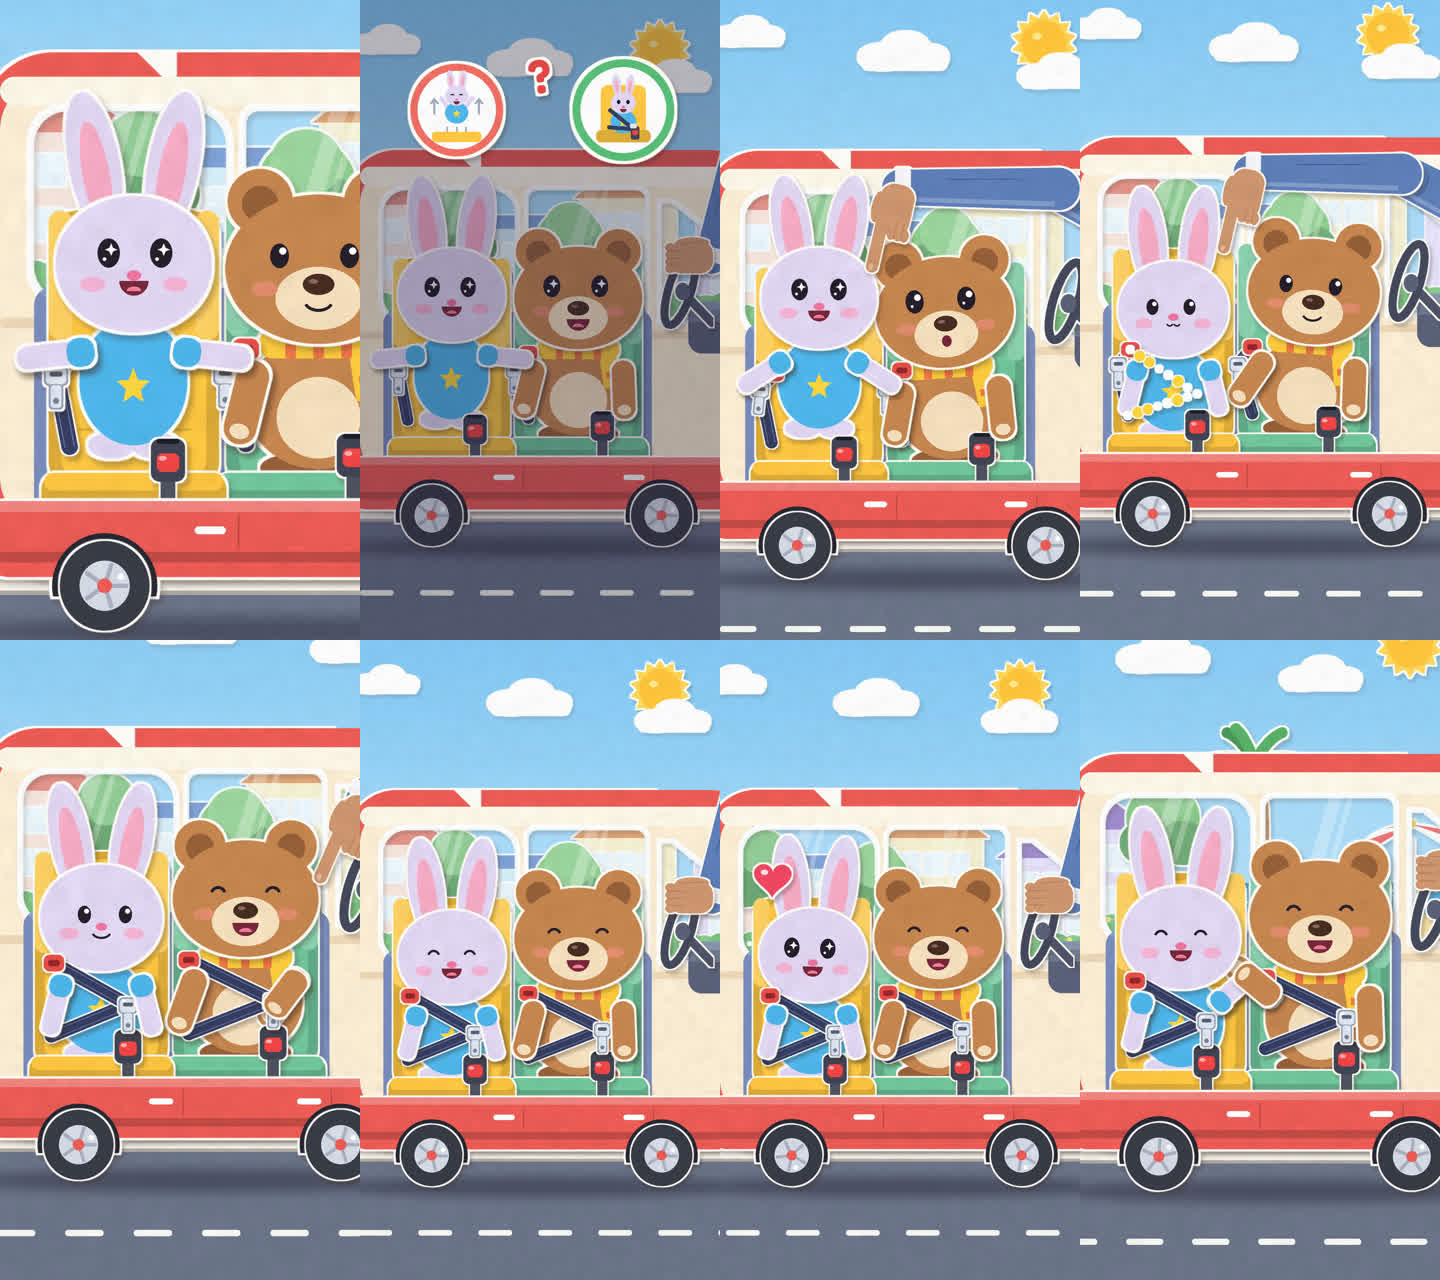
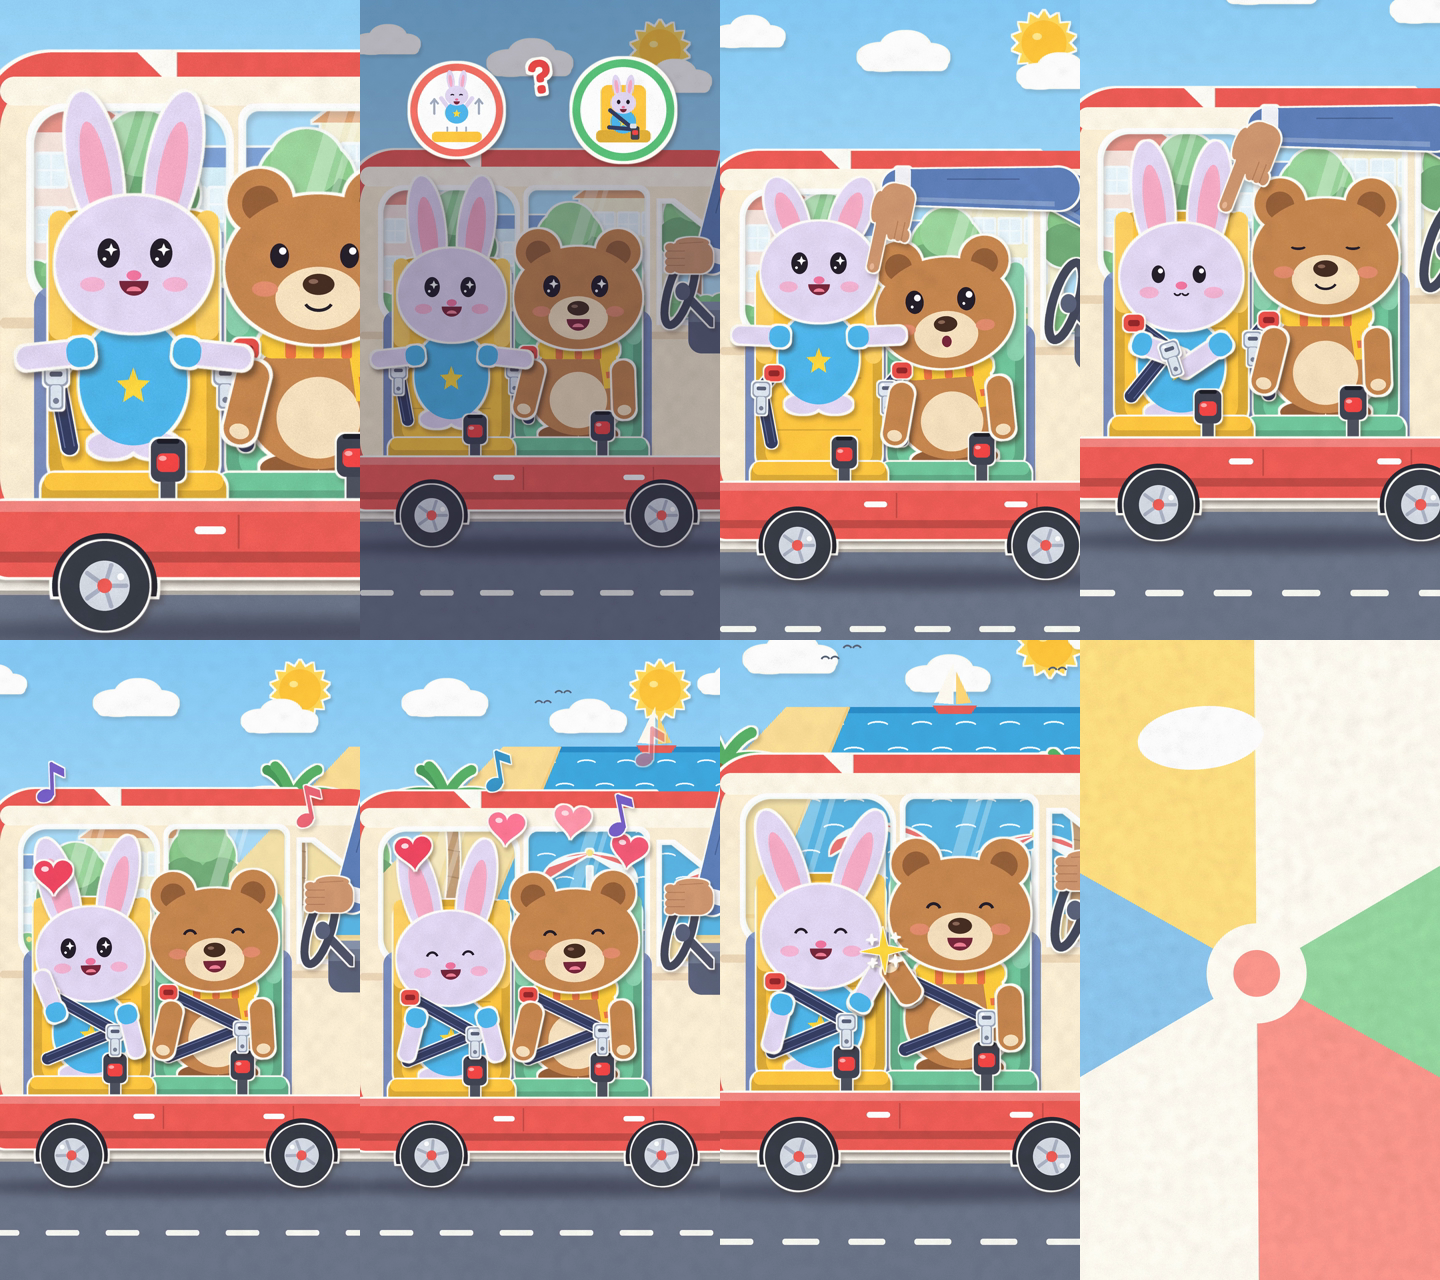
Ep 9 v3: livelier drive, stop at a visible beach, beach-ball wipe loop
Claude-Session: https://claude.ai/code/session_01LjzYEdu9bbZS39dR8hcang

diff --git a/episodes/ep09_buckle_up.py b/episodes/ep09_buckle_up.py
@@ -57,11 +57,13 @@ T_SN_GRAB, T_SN_MID, T_SN_PASS, T_SN_CLICK = 8.05, 8.35, 8.62, 9.0
 T_CR_GRAB, T_CR_MID, T_CR_PASS, T_CR_CLICK = 9.15, 9.42, 9.68, 10.0
 T_THUMB = 10.55                       # count 3: thumbs-up
 T_WHEEL = 11.2                        # hand back on the wheel
-T_GO, RU, T_STOP, RD = 11.55, 1.0, 16.3, 1.2
-V = 360.0                             # cruising scroll speed (px/s)
+T_GO, RU, T_STOP, RD = 11.55, 0.8, 14.55, 1.1   # drive off ... and stop AT the beach before the paw-bump
+ARRIVE_O = PC.BEACH_X + 120            # scroll offset where the beach fills the view
+V = ARRIVE_O / (RU / 2 + (T_STOP - T_GO - RU - RD) + RD / 2)   # cruising scroll speed (px/s), ~620
 COUNTS = (T_SN_CLICK, T_CR_CLICK, T_THUMB + 0.05)
 HEART_PLAN = ((12.4, 160, 720), (12.6, 450, 640), (12.8, 820, 700), (13.0, 640, 600))
-T_IRIS0, T_IRIS1, T_RESET, T_OPEN1 = 16.55, 17.1, 17.18, 17.9
+T_BALL0, T_COVER0, T_RESET, T_COVER1, T_BALL1 = 16.45, 16.95, 17.05, 17.15, 17.75   # beach-ball wipe (loop)
+NOTE_PLAN = ((11.9, 150, 560, 0), (12.5, 900, 520, 1), (13.0, 420, 500, 2), (13.5, 760, 540, 0))
 
 SKY = PC.sky()
 CLOUDS = PC.clouds(W_CLOUDS := scene.W + 600)
@@ -98,7 +100,8 @@ CHECK = icons.check(130)
 SPARKLE = scene.sparkle()
 NUMS = [scene.numeral(1, (244, 112, 104)), scene.numeral(2, (255, 196, 52)), scene.numeral(3, (84, 182, 222))]
 HEARTS = [scene.heart(c, 110) for c in ((240, 72, 98), (255, 120, 150), (244, 92, 120), (255, 150, 170))]
-IRIS = PS.HeartIris()
+BALL = PC.BeachBallWipe()
+NOTES = [PC.music_note(c) for c in ((120, 96, 200), (236, 104, 120), (60, 150, 200))]
 SNIP = Character("snip", 1.15)
 CR = Character("crinkle", 1.2)
 
@@ -338,8 +341,14 @@ def snip_state(t):
         s["tilt"] = 6 * math.sin(2 * math.pi * 1.0 * (t - T_GO)) * ease_in_out(seg(t, 12.0, 12.4))
         e = 7 * math.sin(2 * math.pi * 2.0 * (t - T_GO))
         s["ears"] = [e, -e]
-        if 13.6 <= t:
+        wave = ease_in_out(seg(t, 11.95, 12.25)) * (1 - ease_in_out(seg(t, 13.25, 13.55)))
+        if wave > 0:                       # waves out of the window at the passing houses
+            s["arm_l"] = lerp(-14, -138 + 22 * math.sin(2 * math.pi * 2.6 * (t - 11.95)), wave)
+            s["look"] = (-10, -4)
+        s["head_dy"] = -5 * abs(math.sin(2 * math.pi * 1.0 * (t - T_GO)))   # bops to the beat
+        if 13.9 <= t:                      # the sea! (car rolls to a stop at the beach)
             s.update(eyes="sparkle", mouth="grin", look=(-10, -2))
+            s["head_dy"] = -10 * math.sin(math.pi * seg(t, 14.05, 14.35))
     elif t < 16.15:                        # PAW-BUMP (seated)
         s.update(eyes="happy", mouth="grin")
         wind = ease_in_out(seg(t, 14.8, 15.1))
@@ -415,7 +424,8 @@ def crinkle_state(t):
     elif t < 14.6:                         # the happy ride
         s.update(eyes="happy", mouth="grin", look=(-6, -4))
         s["head_dy"] = 6 * math.sin(2 * math.pi * 2.0 * (t - T_GO))
-        if 13.6 <= t:
+        s["lean"] = 5 * math.sin(2 * math.pi * 1.0 * (t - T_GO)) * ease_in_out(seg(t, T_GO, T_GO + 0.4)) * (1 - seg(t, 13.8, 14.1))
+        if 13.9 <= t:
             s.update(eyes="sparkle", look=(-10, -2))
     elif t < 16.15:                        # PAW-BUMP
         s.update(eyes="happy", mouth="grin", look=(-6, 2))
@@ -641,6 +651,13 @@ def render_frame(t):
             place(f, HEARTS[i], (x + 12 * math.sin(t * 3 + i), y - 150 * p + b), scale=pop_scale(t, t0, 0.25),
                   alpha=1 - ease_in_out(seg(t, 13.9, 14.3)), angle=10 * math.sin(t * 2.5 + i))
 
+    # music notes bob out of the car on the happy ride
+    for i, (t0, x, y, ci) in enumerate(NOTE_PLAN):
+        if t0 <= t < t0 + 1.4:
+            p = seg(t, t0, t0 + 1.4)
+            place(f, NOTES[ci], (x + 30 * math.sin(t * 4 + i), y - 260 * p + b), scale=pop_scale(t, t0, 0.25) * 0.9,
+                  alpha=1 - ease_in_out(seg(p, 0.6, 1.0)), angle=12 * math.sin(t * 5 + i))
+
     # paw-bump: both touching paws in front, sparkle
     if 15.1 <= t < 16.3:
         place(f, SNIP.arm_r, shoulder(SNIP, sn, "r"), angle=sn["arm_r"] + sn["lean"], sy=sn["str_r"])
@@ -680,18 +697,20 @@ def render_frame(t):
     if T_THUMB + 0.1 <= t < T_THUMB + 0.9:
         place(out, CHECK, (700, 470), scale=pop_scale(t, T_THUMB + 0.1, 0.25) * (1 - ease_in_out(seg(t, T_THUMB + 0.7, T_THUMB + 0.9))))
 
-    # heart iris back to the start (loop)
-    if T_IRIS0 <= t < T_OPEN1:
-        if t < T_IRIS1:
-            size = lerp(4300, 0, ease_in_out(seg(t, T_IRIS0, T_IRIS1)) ** 0.7)
-            ctr = (500, 900)
-        elif t < T_RESET + 0.06:
-            size, ctr = 0, IRIS_OPEN_AT
-        else:
-            size = lerp(0, 4300, ease_in_out(seg(t, T_RESET + 0.06, T_OPEN1)) ** 1.6)
-            ctr = IRIS_OPEN_AT
-        out = IRIS.apply(out, ctr, size)
+    # a giant beach ball rolls across and hides the jump back to the start (loop)
+    if T_BALL0 <= t < T_BALL1:
+        out = out.copy()
+        BALL.draw(out, ball_x(t), 960 + 40 * math.sin(math.pi * seg(t, T_BALL0, T_BALL1)), -1.6 * (t - T_BALL0) * 30)
     return out
+
+
+def ball_x(t):
+    """Ball centre: rolls in from the right, lingers while it covers the whole screen, rolls out left."""
+    if t < T_COVER0:
+        return lerp(scene.W + BALL.R + 30, 600, ease_in_out(seg(t, T_BALL0, T_COVER0)) ** 0.8)
+    if t < T_COVER1:
+        return lerp(600, 480, seg(t, T_COVER0, T_COVER1))
+    return lerp(480, -BALL.R - 30, ease_in_out(seg(t, T_COVER1, T_BALL1)) ** 1.25)
 
 
 def draw_belt_path(f, t, base):
@@ -729,10 +748,9 @@ CAM_KEYS = [
     (0.0,) + CAM0, (1.0, 1.47, 330, 1000), (2.3, 1.0, 540, 960), (4.6, 1.0, 540, 960),
     (5.0, 1.08, 470, 920), (6.1, 1.08, 470, 920), (6.5, 1.0, 540, 960), (7.75, 1.0, 540, 960),
     (8.25, 1.14, 482, 1060), (10.1, 1.14, 482, 1060), (10.55, 1.0, 540, 960), (14.7, 1.0, 540, 960),
-    (15.05, 1.1, 480, 1010), (16.3, 1.1, 480, 1010), (T_IRIS1, 1.0, 540, 960), (T_RESET, 1.0, 540, 960),
+    (15.05, 1.1, 480, 1010), (16.3, 1.1, 480, 1010), (16.9, 1.0, 540, 960), (T_RESET, 1.0, 540, 960),
     (T_RESET + 0.01,) + CAM0, (DUR,) + CAM0]
 
-IRIS_OPEN_AT = _iris_open_at()
 
 
 def camera(f, t):
@@ -840,18 +858,22 @@ def build_audio(path):
         sfx.add(tt, A.pop(0.45))
     sfx.add(12.4, A.twinkle(0.6))
     sfx.add(13.7, PS.chirp(0.5))
+    sfx.add(14.2, A.whoosh(0.9, 0.35))                       # sea waves as we pull up
+    for tt, _, _, _ in NOTE_PLAN:
+        sfx.add(tt, A.pop(0.3))
     music.add(13.0, A.shaker(0.4))
     # paw-bump (signature)
     sfx.add(14.85, A.snare_roll(0.6, 0.8))
     sfx.add(15.45, A.boop(0.9))
     A.jingle(music, 15.47, 1.0, ending=True)
     sfx.add(15.5, A.twinkle(0.8))
-    # car stops at the beach, heart iris, back to the start
+    # at the beach; a giant beach ball rolls by, back to the start
     A.strum(music, 16.3, "F", 0.5)
     A.strum(music, 16.8, "G7", 0.5)
-    sfx.add(T_IRIS0, PS.slide_whistle(500, 1400, 0.55, 0.6))
-    sfx.add(T_IRIS1, A.pop(0.7))
-    sfx.add(T_RESET + 0.1, PS.slide_whistle(1400, 700, 0.5, 0.5))
+    sfx.add(T_BALL0, A.whoosh(0.6, 0.7))                    # here comes the beach ball ...
+    sfx.add(T_COVER0 - 0.05, A.boing(0.8, 180))             # BOING
+    sfx.add(T_COVER1, A.whoosh(0.55, 0.6))                  # ... and rolls away
+    sfx.add(T_BALL1 - 0.1, A.pop(0.5))
     for tt in (17.25, 17.75):
         sfx.add(tt, A.boing(0.45, 300))
     sfx.add(17.45, A.uh_oh(0.6))

diff --git a/episodes/props_car.py b/episodes/props_car.py
@@ -124,7 +124,7 @@ def _bucket():
     return c.finish(pivot=(60, 112), border=4, shadow_alpha=0.2)
 
 
-BEACH_X = 1480          # strip x where the beach starts
+BEACH_X = 1150          # strip x where the beach starts (just off screen at the start)
 SCENE_W = 2800          # scenery strip width
 
 
@@ -135,25 +135,37 @@ def scenery():
     # home street: soft pastel houses and trees
     houses = [(-60, 330, 400, (255, 226, 214), (232, 128, 112), (150, 186, 236), 0),
               (320, 280, 330, (214, 236, 246), (110, 146, 206), (240, 150, 110), 2),
-              (660, 290, 420, (255, 240, 200), (226, 150, 92), (120, 186, 140), 1),
-              (1010, 300, 360, (232, 222, 248), (150, 120, 196), (240, 120, 130), 0)]
+              (660, 290, 420, (255, 240, 200), (226, 150, 92), (120, 186, 140), 1)]
     for x, w, h, wall, roof, door, kind in houses:
         place(img, PS._house(w, h, wall, roof, door, kind), (x, HOUSE_BASE))
-    for x, h, col in ((290, 470, (116, 190, 112)), (630, 420, (130, 200, 120)), (1360, 560, (124, 194, 116))):
+    for x, h, col in ((290, 470, (116, 190, 112)), (630, 420, (130, 200, 120)), (1010, 520, (124, 194, 116))):
         place(img, PS._tree(h, col), (x, HOUSE_BASE + 4))
     place(img, PS._hedge(BEACH_X + 40), (-20, HOUSE_BASE - 60))
-    # the beach: sea, sand, umbrella, palm, bucket
+    # the beach: the sea rises high enough to be seen above the car roof (horizon y=320), with a sandy
+    # shoreline running diagonally up from the left, a sailboat, gulls; palms and umbrellas in front
     d = ImageDraw.Draw(img)
-    sea_y, sand_y = 800, 885
-    d.rectangle([BEACH_X, sea_y, SCENE_W, sand_y], fill=(64, 168, 222, 255))
-    d.rectangle([BEACH_X, sea_y, SCENE_W, sea_y + 14], fill=(44, 140, 200, 255))
-    for x in range(BEACH_X + 20, SCENE_W, 110):
-        for k, yy in enumerate((828, 860)):
-            xx = x + 50 * k
-            d.arc([xx, yy - 12, xx + 60, yy + 12], 200, 340, fill=(240, 250, 255, 255), width=5)
+    hz, sand_y = 320, 885
+    shore = [(BEACH_X - 60, 1100), (BEACH_X - 60, 700), (BEACH_X + 300, hz)]
+    d.polygon(shore + [(SCENE_W, hz), (SCENE_W, 1100)], fill=(64, 168, 222, 255))
+    d.polygon([(BEACH_X + 300, hz), (SCENE_W, hz), (SCENE_W, hz + 16), (BEACH_X + 286, hz + 16)], fill=(44, 140, 200, 255))
+    for row, yy in enumerate(range(hz + 50, 860, 70)):
+        for x in range(BEACH_X + 40 + 55 * (row % 2), SCENE_W, 120):
+            if x > BEACH_X - 60 + (1100 - yy) * 0.0 and yy > hz + (BEACH_X + 300 - x) * (700 - hz) / 360:
+                d.arc([x, yy - 12, x + 60, yy + 12], 200, 340, fill=(240, 250, 255, 255), width=5)
+    d.polygon([(BEACH_X - 60, 1100), (BEACH_X - 60, 700), (BEACH_X + 300, hz), (BEACH_X + 470, hz),
+               (BEACH_X + 140, 1100)], fill=(250, 220, 150, 255))                      # sandy headland
+    d.line([(BEACH_X + 470, hz), (BEACH_X + 140, 1100)], fill=(244, 206, 130, 255), width=8)
     d.polygon([(BEACH_X - 120, 1100), (BEACH_X + 60, sand_y + 6), (SCENE_W, sand_y), (SCENE_W, 1100)],
               fill=(250, 220, 150, 255))
     d.rectangle([BEACH_X, sand_y, SCENE_W, sand_y + 10], fill=(244, 206, 130, 255))
+    # sailboat on the horizon and a few gulls
+    bx = BEACH_X + 760
+    d.polygon([(bx - 60, hz - 4), (bx + 60, hz - 4), (bx + 44, hz + 18), (bx - 44, hz + 18)], fill=(232, 96, 90, 255))
+    d.polygon([(bx - 4, hz - 8), (bx - 4, hz - 120), (bx - 56, hz - 12)], fill=(255, 250, 240, 255))
+    d.polygon([(bx + 4, hz - 8), (bx + 4, hz - 96), (bx + 44, hz - 12)], fill=(255, 214, 120, 255))
+    for gx, gy in ((BEACH_X + 420, 190), (BEACH_X + 480, 160), (BEACH_X + 1040, 220)):
+        d.arc([gx - 26, gy - 10, gx, gy + 14], 200, 340, fill=(90, 100, 120, 255), width=5)
+        d.arc([gx, gy - 10, gx + 26, gy + 14], 200, 340, fill=(90, 100, 120, 255), width=5)
     img = grain(img, 0.025)
     place(img, _palm(620), (BEACH_X + 130, 1000))
     place(img, _umbrella(320), (BEACH_X + 560, 960))
@@ -653,3 +665,37 @@ def engine(dur=5.0, vel=1.0, start=0.8, stop=1.0):
     n = np.convolve(_rng.normal(0, 1, len(t)), np.ones(60) / 60, mode="same")
     env = np.minimum(1, t / 0.15) * np.minimum(1, (dur - t) / 0.2) * (0.55 + 0.45 * speed)
     return vel * 0.5 * env * putt * (tone + 1.5 * n)
+
+
+def music_note(col=(120, 96, 200)):
+    """A paper eighth note (an icon, not a word) floating out of the car on the happy ride."""
+    c = Cut(120, 170)
+    c.ellipse(38, 134, 28, 21, col, theta=-20)
+    c.rrect(56, 22, 68, 136, 6, col)
+    c.polygon([(62, 22), (104, 46), (104, 74), (66, 54)], col)
+    return c.finish(pivot=(60, 90), border=4, shadow_alpha=0.18)
+
+
+class BeachBallWipe:
+    """A giant paper beach ball that rolls across the screen and hides the jump back to the start.
+    Pastel wedges and a slow spin keep the frame-to-frame change gentle."""
+    R = 1180
+
+    def __init__(self):
+        R = self.R
+        D = 2 * R + 40
+        c = Cut(D, D)
+        cx = cy = D / 2
+        cols = [(250, 150, 140), (255, 250, 240), (140, 196, 236), (255, 222, 130), (255, 250, 240), (150, 214, 160)]
+        for i, col in enumerate(cols):
+            a0, a1 = math.radians(i * 60), math.radians((i + 1) * 60)
+            pts = [(cx, cy)] + [(cx + R * math.cos(a0 + (a1 - a0) * k / 24), cy + R * math.sin(a0 + (a1 - a0) * k / 24))
+                                for k in range(25)]
+            c.polygon(pts, col)
+        c.ellipse(cx, cy, 150, 150, (255, 250, 240))
+        c.ellipse(cx, cy, 70, 70, (250, 150, 140), sil=False)
+        c.ellipse(cx - R * 0.42, cy - R * 0.45, R * 0.16, R * 0.08, (255, 255, 255), sil=False, theta=-35)
+        self.spr = c.finish(pivot=(cx, cy), border=8, shadow_alpha=0.22, shadow_blur=8)
+
+    def draw(self, f, cx, cy, angle):
+        place(f, self.spr, (cx, cy), angle=angle)

diff --git a/HANDOFF.md b/HANDOFF.md
@@ -20,8 +20,8 @@ You are continuing work for the owner of the YouTube channel **Snip & Crinkle (@
   - Ep 10 `episodes/ep10_hot_sunny_day.py` (beach, hot-sand hops, noodle ears, hat + shade + water sips)
 - **Delivered:** the MP4s for Episodes 6–10 were sent to the owner in the Claude chat (2026-10-05); Episodes 9 and 10 take ~12 min each to render.
 - **Delivered:** the MP4s for Episodes 1–5 were sent to the owner directly in the Claude chat (2026-10-05). GitHub Releases could not be created: cloud sessions get "Creating, editing, or deleting releases is not permitted for this session type" (HTTP 403). MP4s are git-ignored; re-render any episode with `python3 episodes/<file>.py` (~5 min each).
-- **Ep 5 and Ep 9 v2 (2026-10-05):** jointed grown-up arm (`episodes/props_grownup.py`) and their own story music (`episodes/music_extra.py`: toy piano + melodica for Ep 5, organ + steel pan for Ep 9). Both pass `check_video.py`; v2 scorecards appended to `reviews/ep05.md` and `reviews/ep09.md`. MP4s delivered to the owner's Mac as `Videos/ep05_hold_paws_to_cross_v2.mp4` and `Videos/ep09_buckle_up_v2.mp4`. New guide rules 7 (music variety) and 8 (vary who makes the mistake).
-- **YouTube uploads (2026-10-05):** Ep 10 published. Scheduled 6:00 PM IST: Ep 1 (6 Oct), Ep 3 (7), Ep 4 (8), Ep 2 (9), Ep 6 (12), Ep 7 (13), Ep 8 (14). All in the public playlist "Snip & Crinkle Stories". Ep 9 v2 and Ep 5 v2 are not uploaded yet (planned: 15 and 16 Oct).
+- **Ep 5 and Ep 9 v2 (2026-10-05):** jointed grown-up arm (`episodes/props_grownup.py`) and their own story music (`episodes/music_extra.py`: toy piano + melodica for Ep 5, organ + steel pan for Ep 9). Both pass `check_video.py`; v2 scorecards appended to `reviews/ep05.md` and `reviews/ep09.md`. MP4s delivered to the owner's Mac as `Videos/ep05_hold_paws_to_cross_v2.mp4` and `Videos/ep09_buckle_up_v2.mp4`; Ep 9 then got a v3 (drive livelier, stops at a visible beach, beach-ball wipe loop instead of the heart iris), delivered as `Videos/ep09_buckle_up_v3.mp4`. Upload v3, not v2. New guide rules 7 (music variety) and 8 (vary who makes the mistake).
+- **YouTube uploads (2026-10-05):** Ep 10 published. Scheduled 6:00 PM IST: Ep 1 (6 Oct), Ep 3 (7), Ep 4 (8), Ep 2 (9), Ep 6 (12), Ep 7 (13), Ep 8 (14). All in the public playlist "Snip & Crinkle Stories". Ep 9 v3 and Ep 5 v2 are not uploaded yet (planned: 15 and 16 Oct).
 - **Tips learned:** zooms or fast pans over fine stripes (zebra crossing, gingham cloth) trip the "harsh jump" check; keep zooms slow (≤ ~0.35 zoom/s) or pan sideways instead. Review frames with `python3 tools/review_frames.py <episode.py> out.png t1 t2 …` and measure jumps with `python3 tools/frame_jumps.py <episode.py> t0 t1 …` before a full render. Parallel cloud sessions (one per episode, each on its own branch, never touching shared files) worked well for batches.
 
 ## How to work

diff --git a/reviews/ep09.md b/reviews/ep09.md
@@ -45,3 +45,21 @@ File: `output/ep09_buckle_up.mp4` (render with `python3 episodes/ep09_buckle_up.
 | Music variety | 8 | Organ + steel pan clearly differ from the ukulele episodes (music-only tone-colour similarity to Ep 3/7/10 dropped from 0.96 to 0.85). |
 | Loop | 7.5 | Unchanged: still reuses Ep 5's heart-iris wipe. |
 | **Overall** | **8** | Up from my 7.5 for v1. |
+
+## v3 (2026-10-05): lively drive, real beach arrival, new loop
+**What changed:** the car now drives to the beach and **stops there** before the paw-bump (stop at 14.55 s instead of 16.3 s). The beach is visible above the roof and through the windows: sea on a high horizon, sailboat, gulls, palms, a sandy headland. On the ride Snip waves out of the window, both bop and sway to the beat, and paper music notes float out of the car. The heart-iris loop (shared with Ep 5) is replaced by a giant paper **beach ball** that rolls across the screen and hides the jump back to the start. `check_video.py`: PASS (-14.2 LUFS, biggest jump 17.1, seam 2.55).
+
+| Item | Score | Notes |
+|---|---|---|
+| Hook | 8 | Unchanged. |
+| Choice clarity | 8 | Unchanged. |
+| Humour | 7.5 | Ear-bonk still half hidden by the bonk stars. |
+| Lesson accuracy | 9 | Car parked during buckling, moves only after both clicks. |
+| Lesson visibility | 8 | Dotted belt path, CLICK + 1-2-3. |
+| Grown-up's arm | 7 | Jointed now, but the pointing forearm still lies along the roof line. |
+| Payoff | 8 | The drive has life (waving, bopping, notes, hearts) and arriving at the sea is clear. |
+| Paw-bump | 8 | Now happens at the beach. |
+| Loop | 8 | Beach ball wipe: new for the channel and fits the episode (still a wipe, not a story loop). |
+| Music | 7.5 | Organ + steel pan (not verified by ear). |
+| Animation life | 8 | No more static stretch. |
+| **Overall** | **8** | Passes the bar. Weakest remaining: the stiff pointing arm. |
